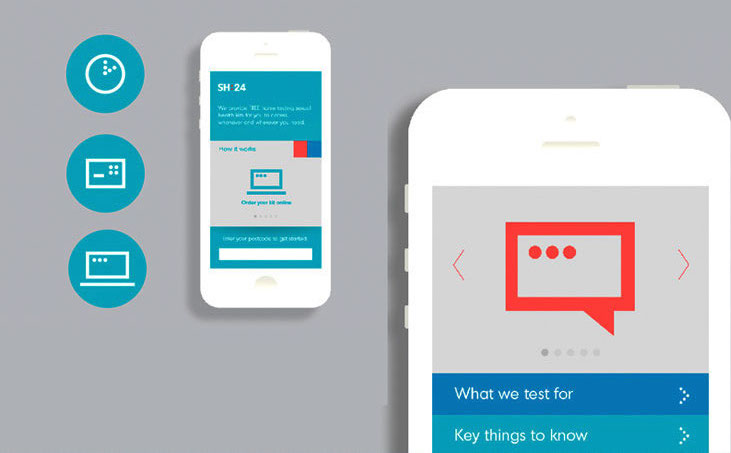
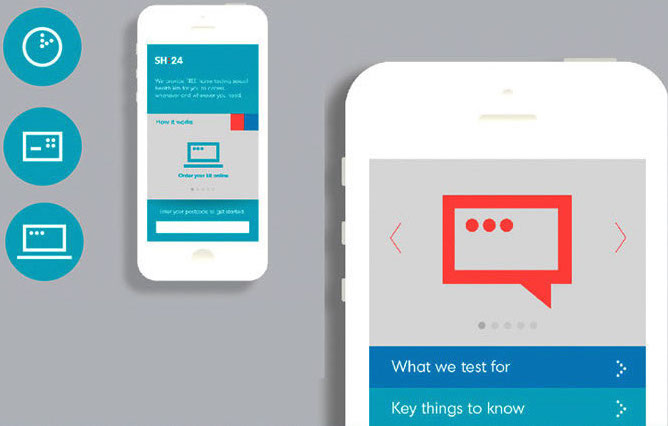
Improve SH:24 prototype segment responsiveness

diff --git a/source/assets/stylesheets/styles/_project_story_sh24.scss b/source/assets/stylesheets/styles/_project_story_sh24.scss
@@ -2,7 +2,66 @@
   object-position: right bottom;
 }
 
-.project-story-sh24__prototype {
+$sh24-prototype-tablet-break: 700px;
+$sh24-prototype-desktop-break: 1100px;
+
+.project-story-sh24-prototype {
+  @include breakpoint($max-container) {
+    @include display-flex;
+    flex-wrap: nowrap;
+    -webkit-flex-wrap: nowrap;
+    flex-direction: row-reverse;
+    -webkit-flex-direction: row-reverse;
+    justify-content: flex-end;
+    -webkit-justify-content: flex-end;
+    max-height: 420px;
+  }
+}
+.project-story-sh24-prototype__text-block {
+  @include breakpoint($max-container) {
+    max-width: 590px;
+    width: 50%;
+  }
+}
+
+.project-story-sh24-prototype__image-block {
+  overflow: hidden;
+
+  @include breakpoint($max-container) {
+    width: 50%;
+  }
+}
+
+.project-story-sh24-prototype__image-wrapper {
+  animation-delay: 1.0s;
+  -webkit-animation-delay: 1.0s;
+
+  @include breakpoint($max-container) {
+    display: flex;
+    justify-content: flex-end;
+    -webkit-justify-content: flex-end;
+  }
+}
+
+.project-story-sh24-prototype__image {
+  padding: 0 32px;
+  box-sizing: border-box;
+  display: block;
   object-fit: contain;
-  object-position: bottom right;
+  width: 100%;
+
+  @include breakpoint($tablet) {
+    max-height: 420px;
+  }
+
+  @include breakpoint($max-container) {
+    object-position: bottom right;
+    padding-top: 32px;
+    padding-right: 0;
+    height: 420px;
+    width: 100%;
+  }
+
+  // @include breakpoint($sh24-prototype-desktop-break) {
+  // }
 }

diff --git a/source/assets/stylesheets/styles/_header.scss b/source/assets/stylesheets/styles/_header.scss
@@ -16,7 +16,7 @@
   font-weight: 600;
   text-align: right;
   margin-right: 16px;
-  margin-top: 16px;
+  padding-top: 16px;
 }
 
 .header__case-study {
